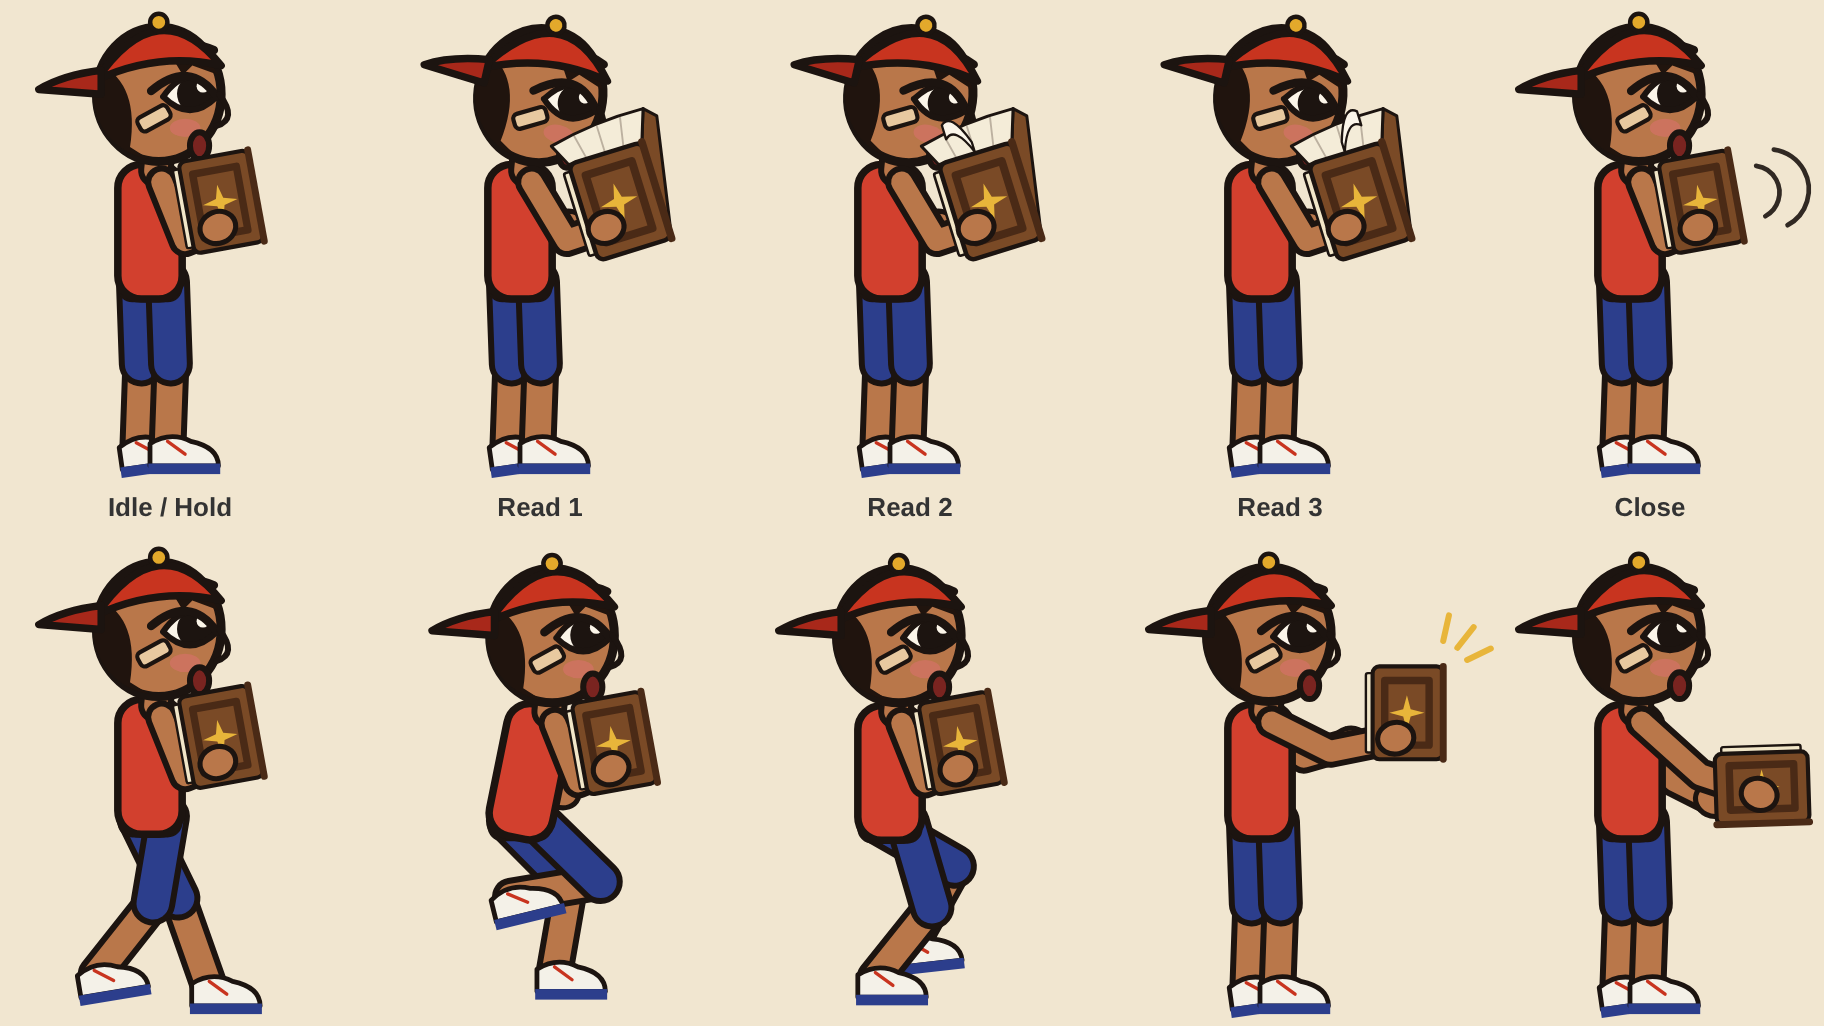
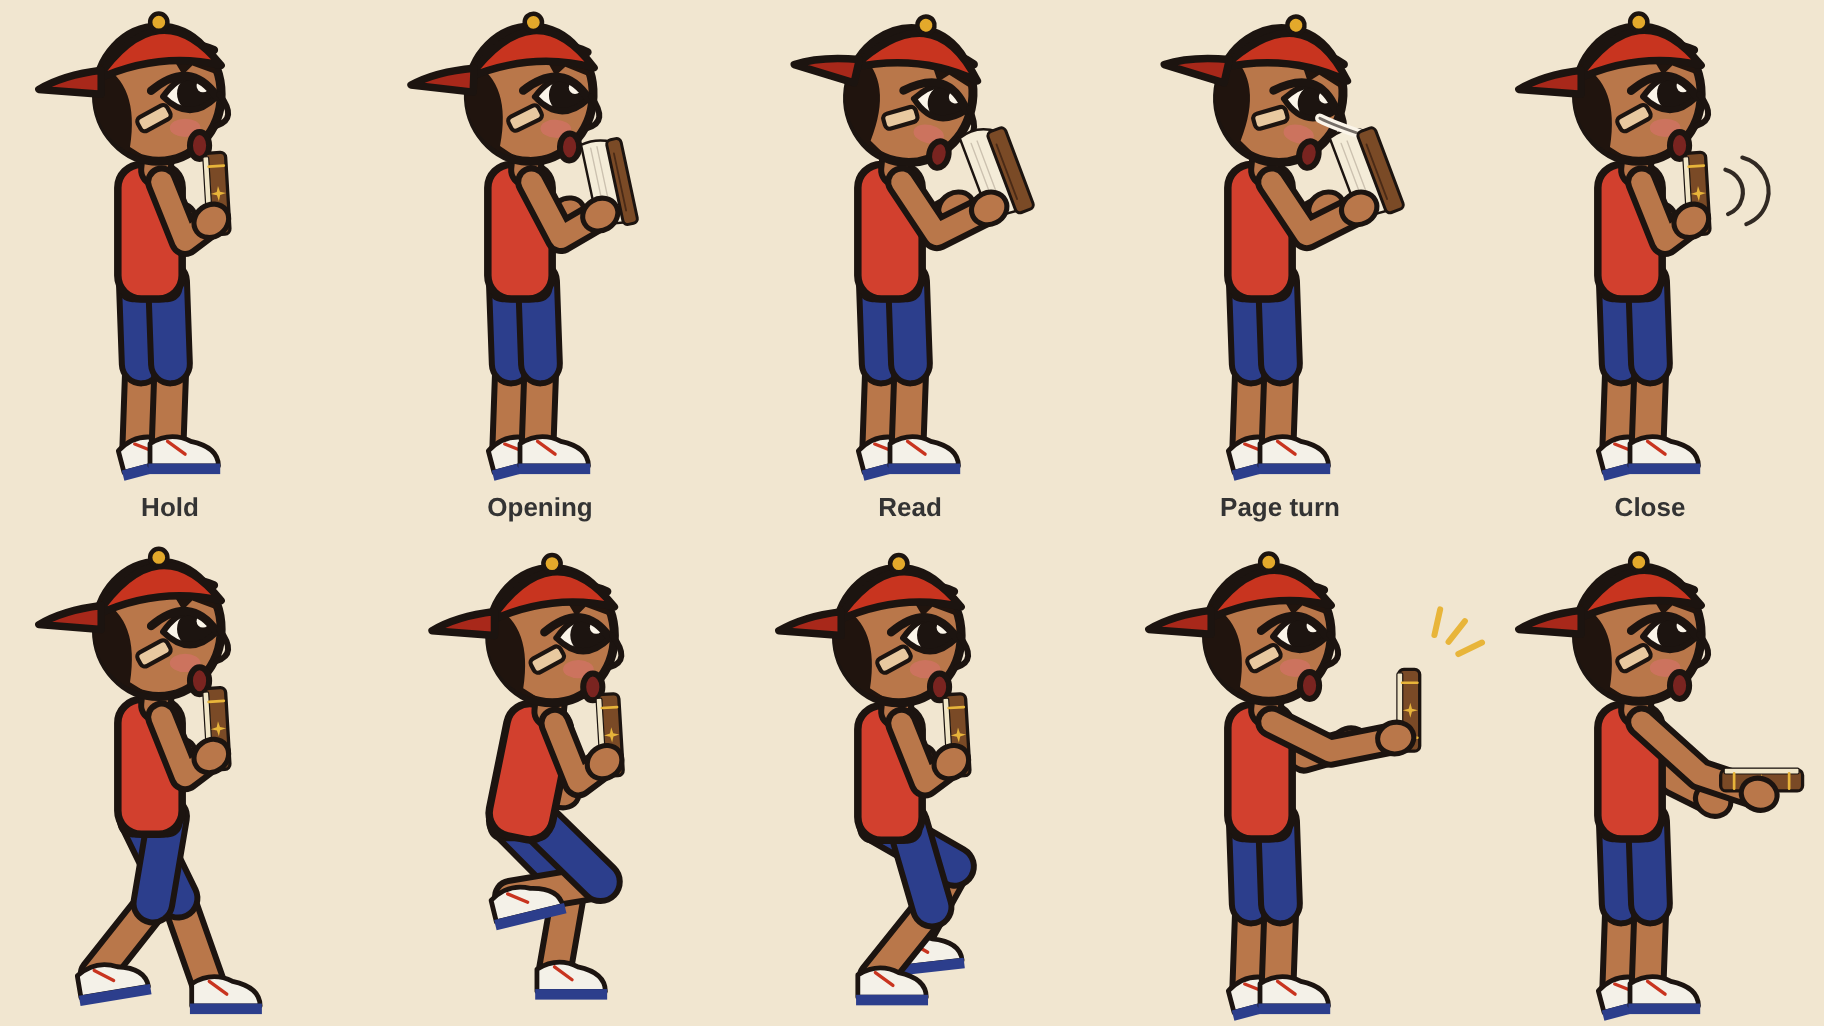
1.5.1-demo: storybook in true side view
Claude-Session: https://claude.ai/code/session_011sGuDQJunPbrnJRzfH8xkJ

diff --git a/index.html b/index.html
@@ -1832,10 +1832,10 @@ function drawPupu(x, y, face1, o) {
     if (o.drink && front) return [sx, sy, sx + 8, sy + 7, headX + 6, headY + 12];
     if (o.press && front) { const u = o.press; return [sx, sy, sx + 4 + 7 * u, sy + 9 - 4 * u, sx + 7 + 15 * u, sy + 15 - 9 * u]; }   // (v266) reaching out to press the lift button
     if (o.push) return front ? [sx, sy, sx + 9, sy + 8, sx + 18, sy + 11] : [sx, sy, sx + 8, sy + 9, sx + 16, sy + 12];   // (v262) pushing: both hands flat on the trolley
-    if (o.book && !(run && !front)) { const u = Math.min(1, o.book.open || 0), pl = o.book.place || 0, us = o.book.use || 0;   // (v279, user's animation sheet) hold · read · walk/run/jump holding it · use (arms out) · place (lay it down flat)
+    if (o.book && !(run && !front)) { const u = Math.min(1, o.book.open || 0), pl = o.book.place || 0, us = o.book.use || 0;   // (v280) seen from the side: hold at the chest · read: held out in front, up towards his face · use · place
       if (pl > 0) return front ? [sx, sy, sx + 6 + 4 * pl, sy + 8 + pl, sx + 11 + 8 * pl, sy + 8 + 4 * pl] : [sx, sy, sx + 5 + 4 * pl, sy + 9 + pl, sx + 8 + 7 * pl, sy + 9 + 4 * pl];
       if (us > 0) return front ? [sx, sy, sx + 6 + 4 * us, sy + 8 - 3 * us, sx + 11 + 9 * us, sy + 7 - 4 * us] : [sx, sy, sx + 5 + 4 * us, sy + 9 - 3 * us, sx + 8 + 8 * us, sy + 8 - 4 * us];
-      return front ? [sx, sy, sx + 4 + 2 * u, sy + 10, sx + 9 + 3 * u, sy + 8] : [sx, sy, sx + 3 + 2 * u, sy + 10, sx + 6 + 3 * u, sy + 8]; }
+      return front ? [sx, sy, sx + 4 + 2 * u, sy + 10 - u, sx + 8 + 6 * u, sy + 7 - 2 * u] : [sx, sy, sx + 3 + 2 * u, sy + 10 - u, sx + 6 + 6 * u, sy + 7 - 2 * u]; }
     if (o.carry) return front ? [sx, sy, sx + 5, sy + 9, sx + 11, sy + 6] : [sx, sy, sx + 4, sy + 9, sx + 10, sy + 6];   // carrying the radio in both hands
     if (o.remote && front) { const u = o.remote; return [sx, sy, sx + 2 + 9 * u, sy + 10 - 9 * u, sx + 3 + 17 * u, sy + 20 - 25 * u]; }
     if (o.pouch !== undefined && front) return [sx, sy, sx + 6, sy + 8, sx + 13, sy + 9];   // arm out over the bowl, holding the treat pouch
@@ -1861,18 +1861,24 @@ function drawPupu(x, y, face1, o) {
     if (o.holdStone && front && !tq) circ(hx2 + 1, hy2 - 1, 2.8, '#8A8478', 1.3);
     if (o.plane && front && !(tq && o.throwT >= THROW_REL)) akPlane(hx2 + 2, hy2 - 3, 0.5, tq ? -0.5 : -0.2, 1);
     if (o.book && front) { const B = o.book, u = Math.min(1, B.open || 0), pl = B.place || 0, us = B.use || 0, k = pl > 0 || us > 0 ? 0 : u, flat = Math.max(0, Math.min(1, (pl - 0.35) / 0.65));
-      const bx = hx2 + 1 + 2 * k + 2 * us, by = hy2 - 4 + 3 * flat;
-      ctx.save(); ctx.translate(bx, by); ctx.rotate(pl > 0 ? flat * Math.PI / 2 * 0.98 : us > 0 ? 0 : -0.18 - 0.12 * k); ctx.scale(-(1.15 + 0.1 * k), 1.15 + 0.1 * k);   // (v279) mirrored: the spine away from him, the pages open at the top towards him
-      if (k > 0.02) { ctx.beginPath(); ctx.moveTo(-5.5, 6.4); ctx.lineTo(-5.5 - 3 * k, -8 - 2.2 * k); ctx.lineTo(-4 - 3 * k, -9.5 - 2.2 * k); ctx.lineTo(-5.5, -7.4); ctx.closePath(); fs('#7A4A26', 0.8);   // the other half's cover, swung back
-        ctx.beginPath(); ctx.moveTo(-5.5, -7.4); ctx.lineTo(-4 - 3 * k, -9.5 - 2.2 * k); ctx.quadraticCurveTo(0, -9 - 3 * k, 5.5 + 1 * k, -8.5 - 2 * k); ctx.lineTo(5, -7.4); ctx.closePath(); fs('#F4ECD8', 0.8);   // the pages, fanned open
-        for (let j = 1; j < 4; j++) { const f = j / 4; line(-5.5 + 10.5 * f, -7.4, -4 - 3 * k + (9.5 + 4 * k) * f, -9.5 - 2.2 * k + f, 'rgba(60,40,30,.3)', 0.5); }
-        if (B.flip > 0 && B.flip < 1 && k > 0.9) { const th = B.flip * Math.PI, ex = -0.25 + 5.5 * Math.cos(th), ey = -9.8 - 3.2 * Math.sin(th);   // (Read 2 · Read 3) a page turning over
-          ctx.beginPath(); ctx.moveTo(-0.25, -9); ctx.quadraticCurveTo((ex - 0.25) / 2, ey - 1.5, ex, ey); ctx.lineTo(ex, ey + 2); ctx.quadraticCurveTo((ex - 0.25) / 2, ey + 0.5, -0.25, -7.6); ctx.closePath(); fs('#FBF5E9', 0.6); } }
-      box(4, -6.4, 2, 11.8, '#F1E6C8', 0.3, 0.7); box(-5.5, -7.4, 10.5, 13.8, '#7A4A26', 1, 1.2); ctx.strokeStyle = '#4A2A16'; ctx.lineWidth = 1.1; ctx.strokeRect(-3.4, -5.3, 6.6, 9.6); line(-5.5, -7.4, -5.5, 6.4, '#4A2A16', 2); star4(-0.1, -0.5, 2.6, '#E8B53A');
-      if (B.snap > 0) { ctx.globalAlpha = Math.min(1, B.snap * 3); for (const d of [0, 1]) { ctx.beginPath(); ctx.arc(-8 - d * 2.4, -0.5, 4 + d * 2, Math.PI * 0.6, Math.PI * 1.4); ctx.strokeStyle = INK; ctx.lineWidth = 0.7; ctx.stroke(); } ctx.globalAlpha = 1; }   // (Close) it snaps shut
+      // (v280, user) a real side view: the book is edge-on to us. Shut, we see only its thickness (the spine, with gold bands).
+      // Open to read, its halves make a V towards his face with the spine furthest from him: from the side that is a narrow
+      // slab of brown cover tipped back towards his face, with the tops of the pages showing; a turning page is a thin arc.
+      const bx = hx2 + 1.5 + 0.5 * k + 2 * us, by = hy2 - 5 - 1 * k + 3 * flat, th = 3.6 + 2.4 * k, hh = 14;
+      ctx.save(); ctx.translate(bx, by); ctx.rotate(pl > 0 ? flat * Math.PI / 2 : us > 0 ? 0 : -0.06 - 0.3 * k);
+      if (k > 0.05) {   // the open book: pages (their top edges) towards him, the near cover facing out
+        ctx.beginPath(); ctx.moveTo(-th / 2 - 0.4, -hh / 2 - 1.2 * k); ctx.quadraticCurveTo(0, -hh / 2 - 2.4 * k, th / 2, -hh / 2); ctx.lineTo(th / 2, hh / 2); ctx.lineTo(-th / 2 - 0.4, hh / 2 - 0.6); ctx.closePath(); fs('#F4ECD8', 0.8);
+        for (let j = 1; j < 3; j++) line(-th / 2 + j * 1.1, -hh / 2 + 0.3, -th / 2 + j * 1.1, hh / 2 - 0.8, 'rgba(60,40,30,.22)', 0.45);
+        if (B.flip > 0 && B.flip < 1) { const a = B.flip * Math.PI; ctx.beginPath(); ctx.moveTo(th / 2, -hh / 2 + 1); ctx.quadraticCurveTo(th / 2 - 1 - 2 * Math.sin(a), -hh / 2 - 2 * Math.sin(a), th / 2 - th * B.flip, -hh / 2 - 0.5 - 2.5 * Math.sin(a)); ctx.strokeStyle = '#FBF5E9'; ctx.lineWidth = 1.6; ctx.stroke(); ctx.strokeStyle = 'rgba(28,20,16,.6)'; ctx.lineWidth = 0.45; ctx.stroke(); }
+        box(th / 2 - 1.8 * k, -hh / 2 - 0.4, 1.8 + 1.4 * k, hh + 0.8, '#7A4A26', 0.8, 1);   // the near cover, seen edge-on-ish
+        line(th / 2 - 1.8 * k + 0.9, -hh / 2 + 2, th / 2 - 1.8 * k + 0.9, hh / 2 - 2, '#4A2A16', 0.6); }
+      else {   // shut: the spine towards us
+        box(-th / 2, -hh / 2, th, hh, '#7A4A26', 0.9, 1.1); box(-th / 2 - 0.3, -hh / 2 + 0.6, 1, hh - 1.2, '#F1E6C8', 0.25, 0.4);
+        for (const yy of [-hh / 2 + 2.3, hh / 2 - 2.3]) line(-th / 2 + 0.6, yy, th / 2 - 0.4, yy, '#E8B53A', 0.9); star4(0.2, 0, 1.3, '#E8B53A'); }
+      if (B.snap > 0) { ctx.globalAlpha = Math.min(1, B.snap * 3); for (const d of [0, 1]) { ctx.beginPath(); ctx.arc(th / 2 + 2 + d * 2.4, 0, 4 + d * 2, -Math.PI * 0.4, Math.PI * 0.4); ctx.strokeStyle = INK; ctx.lineWidth = 0.7; ctx.stroke(); } ctx.globalAlpha = 1; }   // (Close) it snaps shut
       ctx.restore();
-      if (us > 0.6) { ctx.save(); ctx.globalAlpha = (us - 0.6) / 0.4; for (let j = 0; j < 3; j++) { const a = -1.35 + j * 0.45, ox = bx + 5, oy = by - 7; line(ox + Math.cos(a) * 6, oy + Math.sin(a) * 6, ox + Math.cos(a) * 10.5, oy + Math.sin(a) * 10.5, '#E8B53A', 2); } ctx.restore(); }   // (Use) a little burst of light
-      G.bookW = {x: x + face1 * SP * (bx - 1), y: y + SP * (by - 9 - 2 * k)}; }
+      if (us > 0.6) { ctx.save(); ctx.globalAlpha = (us - 0.6) / 0.4; for (let j = 0; j < 3; j++) { const a = -1.35 + j * 0.45, ox = bx + 3, oy = by - 7; line(ox + Math.cos(a) * 6, oy + Math.sin(a) * 6, ox + Math.cos(a) * 10.5, oy + Math.sin(a) * 10.5, '#E8B53A', 2); } ctx.restore(); }   // (Use) a little burst of light
+      G.bookW = {x: x + face1 * SP * (bx - 3 * k), y: y + SP * (by - 8)}; }
     if (o.carry && front) drawRadioBox(hx2 - 1, hy2 + 14, 0.3, ['battery', 'knob', 'antenna'], false);   // (v266) hanging from his hands by its strap handle   // (v262) Dadu's radio, held against his chest
     if (o.remote && front) { ctx.save(); ctx.translate(hx2, hy2); ctx.rotate(Math.atan2(hy2 - ey2, hx2 - ex2)); box(-2, -2.2, 10, 4.4, '#222228', 1.5, 1.2); circ(7, 0, 0.9, '#E04A3A', 0); ctx.restore(); }
     ctx.beginPath(); ctx.ellipse(hx2 + (hx2 - ex2) * 0.12, hy2 + (hy2 - ey2) * 0.12, 2.7, 3.1, Math.atan2(hy2 - ey2, hx2 - ex2) - Math.PI / 2, 0, Math.PI * 2); fs(SKIN, 1.7); // hand

diff --git a/sw.js b/sw.js
@@ -1,5 +1,5 @@
 // Pupu's World service worker: always try the network first (so updates show at once), fall back to the saved copy when offline
-const C='pupu-1.5.0',F=['./','index.html','manifest.json','icons/icon-192.png','icons/icon-512.png'];
+const C='pupu-1.5.1',F=['./','index.html','manifest.json','icons/icon-192.png','icons/icon-512.png'];
 self.addEventListener('install',e=>{self.skipWaiting();e.waitUntil(caches.open(C).then(c=>c.addAll(F)));});
 self.addEventListener('activate',e=>e.waitUntil(caches.keys().then(ks=>Promise.all(ks.filter(k=>k!==C).map(k=>caches.delete(k)))).then(()=>self.clients.claim())));
 self.addEventListener('fetch',e=>{if(e.request.method!=='GET')return;

diff --git a/docs/BUILD_NOTES.md b/docs/BUILD_NOTES.md
@@ -472,3 +472,6 @@ The user sent a full design document (saved as `claude/chapter4-library-design.m
 - The whole book is mirrored left-to-right (spine away from him, the pages open at the top towards him), a little bigger (×1.15).
 - **The set (`o.book` = {open, flip, snap, use, place}; `bookTick` animates it):** *Idle/Hold* shut against his chest, cover and gold star towards us · *Read 1* open, pages fanned at the top, head tipped down · *Read 2 / Read 3* a page turns over every 1.6 s while `turning` (a soft rustle) · *Close* it snaps shut with two motion arcs and a click · *Walk* both hands keep it at his chest (no arm swing) · *Run* the front hand holds it, the back arm pumps · *Jump* held to his chest, knees tucked · *Use / Interact* both arms reach forward with the book upright, three gold rays · *Give / Place* arms reach forward and down, the book turns flat as it is laid down.
 - In the game: he flips through the blank pages in the secret room and on the library table; the book snaps shut before he lays it flat on the library's stand.
+
+## v280 (user: "imagine a man reading a book seen from the side")
+- **RULE: draw held objects in true side view (perspective), not a 3/4 picture pasted on a profile character.** A book seen from the side is edge-on: *shut* against his chest we only see its thickness (the spine, gold bands, a tiny star); *open* to read, its halves make a V towards his face with the spine furthest from him, so from the side it is a narrow slab of brown cover tipped back towards his eyes with the top edges of the pages showing; a turning page is a thin arc over the top. He holds it out at arm's length just below his chin, head tipped down. *Place*: the book turns flat and is laid down; *use*: held out upright, edge-on, with gold rays.

diff --git a/docs/ART_BIBLE.md b/docs/ART_BIBLE.md
@@ -64,3 +64,5 @@
 Brown leather cover (#7A4A26) with a darker inset border (#4A2A16), a gold four-pointed star in the middle (#E8B53A), cream page edges. Held against the chest when carried; held open at chest height to read (cover and star still facing us, the pages fanned up towards him, never over his face), head tipped down; both arms forward to place it.
 
 Book animation set (v279, from the user's sheet): hold · read (pages turning) · close (snap) · walk/run/jump holding it · use (arms forward, gold rays) · place (laid down flat). The book is drawn with its spine away from Pupu and the pages opening at the top towards him.
+
+**Perspective rule (v280, user):** held objects are drawn as they would really look from the side. A book in profile is edge-on: shut, a thin upright slab (the spine); open for reading, a narrow brown slab tipped back towards his face, the page tops showing, held out at chin height.

diff --git a/CHANGELOG.md b/CHANGELOG.md
@@ -1,5 +1,8 @@
 # Changelog
 
+## 1.5.1-demo · 2026-11-13
+- The storybook is now drawn in true side view: edge-on when held shut, a narrow open book tipped towards Pupu's face when he reads.
+
 ## 1.5.0-demo · 2026-11-13
 - Full book animation set: hold, read with turning pages, snap shut, walk/run/jump holding the book, use, and place it down flat.
 
